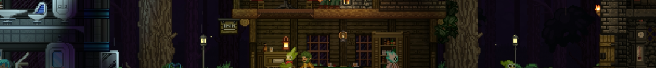
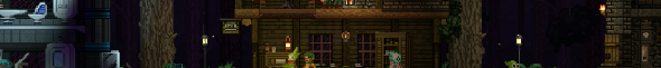
mod page image tweaks

diff --git a/content/mods.html b/content/mods.html
@@ -1,4 +1,4 @@
-<img id="modimage" src="img/mods/TES.png">
+<figure><img id="modimage" src="img/mods/TES.png"></figure>
 <h2>The Elder Scrolls</h2>
 <h3>Morrowind</h3>
 <ul>
@@ -9,24 +9,22 @@
 	<li><a href="https://www.nexusmods.com/skyrimspecialedition/users/75709538?tab=user+files">Nexus Mods</a>
 </ul><br><br>
 
-<img id="modimage" src="img/mods/SR.png">
+<figure><img id="modimage" src="img/mods/SR.png"></figure>
 <h2>Saints Row</h2>
 <ul>
 	<li><a href="https://www.saintsrowmods.com/forum/members/mysticelodie.153945/#about">Saints Row Mods</a>
 </ul><br><br>
 
-<img id="modimage" src="img/mods/SB.png">
+<figure><img id="modimage" src="img/mods/SB.png"></figure>
 <h2>Starbound</h2>
 <ul>
 	<li><a href="https://steamcommunity.com/id/MysticElodie/myworkshopfiles/?appid=211820">Steam Workshop</a>
 </ul><br><br>
 
-<img id="modimage" src="img/mods/ZT.png">
+<figure><img id="modimage" src="img/mods/ZT.png"></figure>
 <h2>Zoo Tycoon</h2>
 <ul>
 	<li>Coming soon :)
 </ul>
 <br>
 <p>(no Google Drive mirror links here yet, i need to reorganize everything on there- they'll be back !!)</p>
-
-

diff --git a/content/record.html b/content/record.html
@@ -1,2 +1,2 @@
 <h2 style="text-align: center;">UNDER CONSTRUCTION</h2><br>
-<p style="text-align: center; line-height: 40px;">It is narrow-minded.<br>What is an "ordinary life", anyway?<br>She will never know.</p>
+<p style="text-align: center; line-height: 35px;">She's lost sight. Nothing more.<br>What is a "normal life", anyway?<br>She will never know.<br>We will never know.</p>

diff --git a/style.css b/style.css
@@ -64,6 +64,16 @@ nav h3 {
 	margin-bottom: -0.4em;
 }
 
+figure {
+	padding: 0;
+	margin: 0;
+}
+
+figure > img {
+	height:auto;
+    width: 100%;
+}
+
 a {
 	text-decoration: none;
 	color: #ff6;
